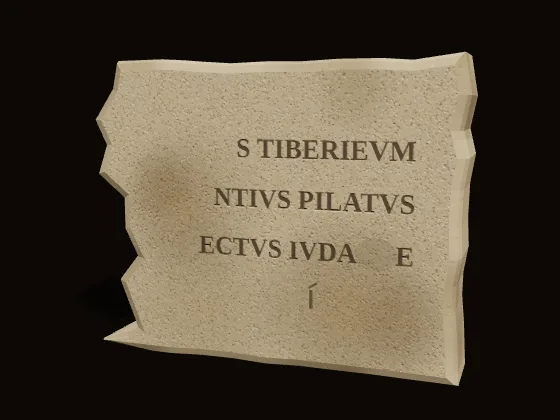
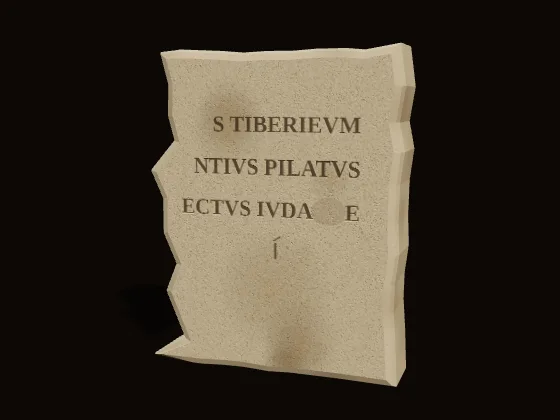
Museum V44 Pilate Stone: stand the model upright (82 cm high x 65 cm wide x 20 cm deep, CIIP II 1277)
The model lay on its side (0.82 wide x 0.65 high). CIIP II 1277 gives height 82 cm,
width 65 cm, depth 20 cm (record re-opened 2026-11-16). Width and height swapped; the
inscription keeps its letters, their 6 cm size, their place below the top and in from
the right edge, and its reading direction (the 2026-11-08 texture fix is untouched).
The Vault still is re-rendered from the corrected model. Source log notes the change.

Order: handoff/order-2026-11-15-pilate-stone-orientation-fix.md. The order labels
82 x 65 x 20 as width x height x depth; the source labels 82 as height. Built to the
source, which is what Carter's (1a) 'turn it upright' answered; flagged in the reply.

Changed region(s): [[0.1518, 0.0929, 0.85, 0.9286]]

diff --git a/docs/museum/relics.js b/docs/museum/relics.js
@@ -476,12 +476,15 @@ CAT.v44 = (E) => {                                          // the Pilate Stone:
   //   [---]S TIBERIEVM / [----]NTIVS PILATVS / [-----]ECTVS IVDA[--]E / [-----]E[-------]
   // Each line loses its start to the broken left side; line 3 has a two-letter gap before its last E; of line 4
   // only one letter survives, a vertical stroke under an apex, read as E. Every line runs left to right.
-  const w = 0.82, h = 0.65, pts = outline(w, h, { jag: 0.02, jagL: 0.08, n: 10 }); pts.forEach((p) => { if (p[0] < -0.2) p[0] += (R() * 0.08); });
+  // The block stands upright, as CIIP II 1277 measures it: 82 cm high, 65 cm wide, 20 cm deep (until 2026-11-16 the
+  // model lay on its side, 82 wide). The letters keep their size (6 cm) and their place below the top and in from the
+  // right edge; the taller block simply runs on below the last line.
+  const w = 0.65, h = 0.82, pts = outline(w, h, { jag: 0.02, jagL: 0.08, n: 10 }); pts.forEach((p) => { if (p[0] < -0.2) p[0] += (R() * 0.08); });
   const g = slab({ pts, d: 0.2, stone: "limestone", env: E.env, relief: 5, paint: (c, hg, W, H) => {
-    const px = Math.round(H * 0.092), right = W * 0.9, font = `600 ${px}px "Times New Roman", Times, "Liberation Serif", "DejaVu Serif", serif`;
+    const k = W / w, px = Math.round(0.06 * k), right = W - 0.082 * k, font = `600 ${px}px "Times New Roman", Times, "Liberation Serif", "DejaVu Serif", serif`;
     const cut = (x, y, str) => { [[c, "rgba(60,50,40,.7)"], [hg, "#3a3a3a"]].forEach(([q, ink]) => { if (!q) return; q.save(); q.font = font; q.textAlign = "left"; q.textBaseline = "alphabetic"; q.fillStyle = ink; q.fillText(str, x, y); q.restore(); }); };
     const wid = (str) => { c.save(); c.font = font; const m = c.measureText(str).width; c.restore(); return m; };
-    const base = [H * 0.3, H * 0.47, H * 0.64, H * 0.81];
+    const base = [0.195, 0.3055, 0.416, 0.5265].map((m) => m * k);   // baselines, in metres below the top
     cut(right - wid("S TIBERIEVM"), base[0], "S TIBERIEVM");
     cut(right - wid("NTIVS PILATVS"), base[1], "NTIVS PILATVS");
     const gap = wid("EA"), tail = wid("E");                  // line 3: IVDA, two letters lost, then the last E

diff --git a/sources/v44-pilate-stone.md b/sources/v44-pilate-stone.md
@@ -21,3 +21,4 @@ Per the project sourcing standard, this citation log records the real, checkable
 *Museum rendition (inscription texture, 2026-11-08)*
 
 - CIIP II 1277, "Dedication by Pontius Pilate in Judea", as published in the *Judaism and Rome* database, https://heurist.huma-num.fr/heurist/judaism_and_rome/view/288 (opened 2026-11-08): diplomatic text `[---]S TIBERIEVM / [----]NTIVS PILATVS / [-----]ECTVS IVDA[--]E / [-----]E[-------]`; line 4 one letter (a vertical stroke under an apex, read as E); 82 × 65 × 20 cm; letters 6 cm. The museum model's letters follow this diplomatic text. The Epigraphic Database Heidelberg record (HD004074) could not be opened from the drafting environment (access denied).
+- Museum model orientation (2026-11-16, order `handoff/order-2026-11-15-pilate-stone-orientation-fix.md`): the model now stands upright at CIIP II 1277's measurements, 82 cm high × 65 cm wide × 20 cm deep (record re-opened 2026-11-16, *Judaism and Rome* database, same URL as above; it gives Height 82 cm, Width 65 cm, Depth 20 cm). Until then it lay on its side (82 wide × 65 high). Letters unchanged in size (6 cm) and wording. No photograph of the real stone could be opened from the build session (Wikipedia's media API was blocked); the comparison was made against the CIIP record's measurements and description (inscribed block, left side badly damaged, lines running across the face) and the diplomatic text, and says so.
